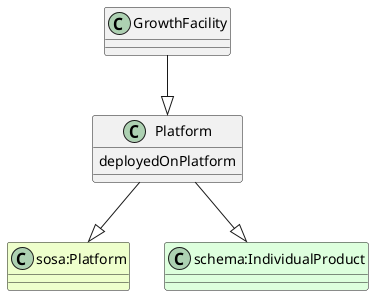
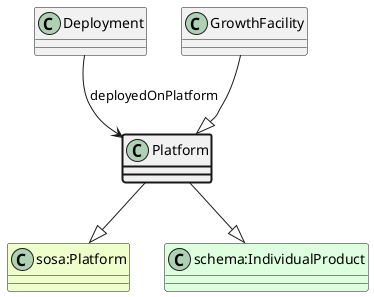
Range

diff --git a/doc/appn_GrowthFacility.md b/doc/appn_GrowthFacility.md
@@ -12,7 +12,7 @@
 * https://www.w3.org/ns/sosa/FeatureOfInterest
 ## Properties
 * appn:GrowthFacility appn:hasGrowthFacilityType [appn:GrowthFacilityType](/doc/appn_GrowthFacilityType.md)
-* GrowthFacility https://schema.plantphenomics.org.au/deployedOnPlatform
+* [appn:Deployment](/doc/appn_Deployment.md) appn:deployedOnPlatform [appn:Platform](/doc/appn_Platform.md)
 * [appn:Assay](/doc/appn_Assay.md) appn:isForObservationUnit [appn:ObservationUnit](/doc/appn_ObservationUnit.md)
 * [appn:ObservationUnit](/doc/appn_ObservationUnit.md) appn:inheritsContext [appn:ObservationUnit](/doc/appn_ObservationUnit.md)
 * [appn:ObservationUnit](/doc/appn_ObservationUnit.md) appn:hasLocation [appn:SpatialLocation](/doc/appn_SpatialLocation.md)

diff --git a/doc/appn_Deployment.md b/doc/appn_Deployment.md
@@ -6,5 +6,6 @@
 * https://www.w3.org/ns/ssn/Deployment
 * https://schema.org/Thing
 ## Properties
-* Deployment https://schema.plantphenomics.org.au/deployedSystem
-* Deployment https://schema.plantphenomics.org.au/deployedOnPlatform
+* appn:Deployment appn:deployedSystem [appn:Sensor](/doc/appn_Sensor.md)
+* appn:Deployment appn:deployedSystem [appn:Actuator](/doc/appn_Actuator.md)
+* appn:Deployment appn:deployedOnPlatform [appn:Platform](/doc/appn_Platform.md)

diff --git a/doc/appn_Actuator.md b/doc/appn_Actuator.md
@@ -7,6 +7,6 @@
 * https://www.w3.org/ns/sosa/Actuator
 * https://schema.org/IndividualProduct
 ## Properties
-* Actuator https://schema.plantphenomics.org.au/deployedSystem
+* [appn:Deployment](/doc/appn_Deployment.md) appn:deployedSystem appn:Actuator
 * [appn:Control](/doc/appn_Control.md) appn:madeByController [appn:Controller](/doc/appn_Controller.md)
 * [appn:Input](/doc/appn_Input.md) appn:madeByController [appn:Controller](/doc/appn_Controller.md)

diff --git a/doc/appn_Platform.md b/doc/appn_Platform.md
@@ -6,6 +6,6 @@
 * https://www.w3.org/ns/sosa/Platform
 * https://schema.org/IndividualProduct
 ## Properties
-* Platform https://schema.plantphenomics.org.au/deployedOnPlatform
+* [appn:Deployment](/doc/appn_Deployment.md) appn:deployedOnPlatform appn:Platform
 ## Subclasses
 * [https://schema.plantphenomics.org.au/GrowthFacility](/doc/appn_GrowthFacility.md)

diff --git a/doc/appn_Sensor.md b/doc/appn_Sensor.md
@@ -7,5 +7,5 @@
 * https://www.w3.org/ns/sosa/Sensor
 * https://schema.org/IndividualProduct
 ## Properties
-* Sensor https://schema.plantphenomics.org.au/deployedSystem
+* [appn:Deployment](/doc/appn_Deployment.md) appn:deployedSystem appn:Sensor
 * [appn:Observation](/doc/appn_Observation.md) appn:madeByObserver [appn:Observer](/doc/appn_Observer.md)
